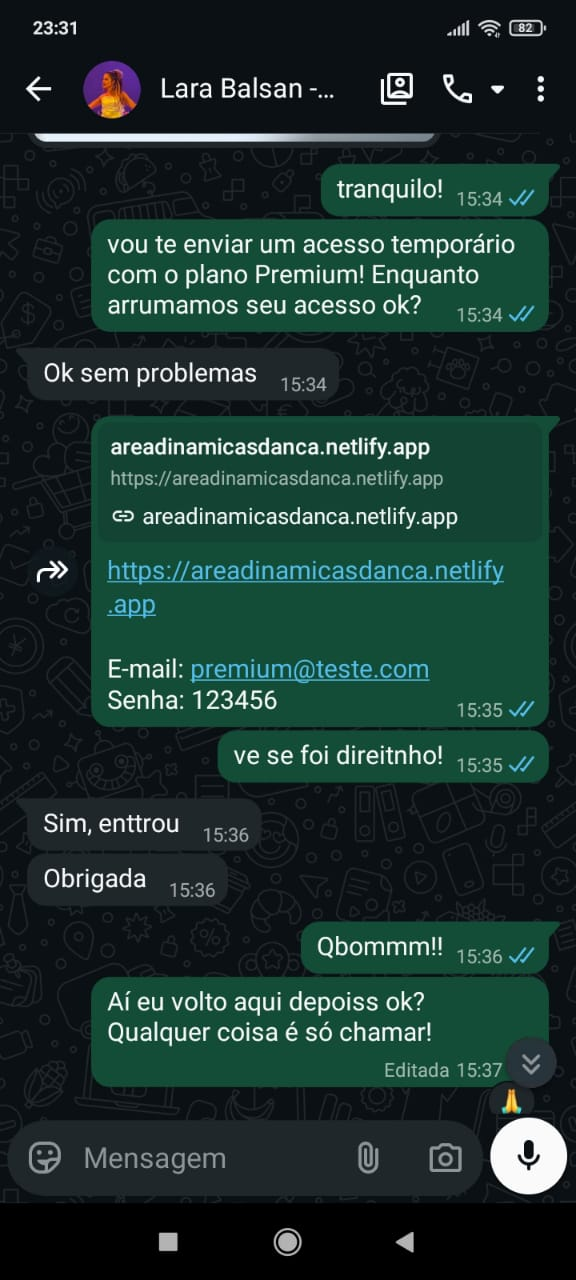
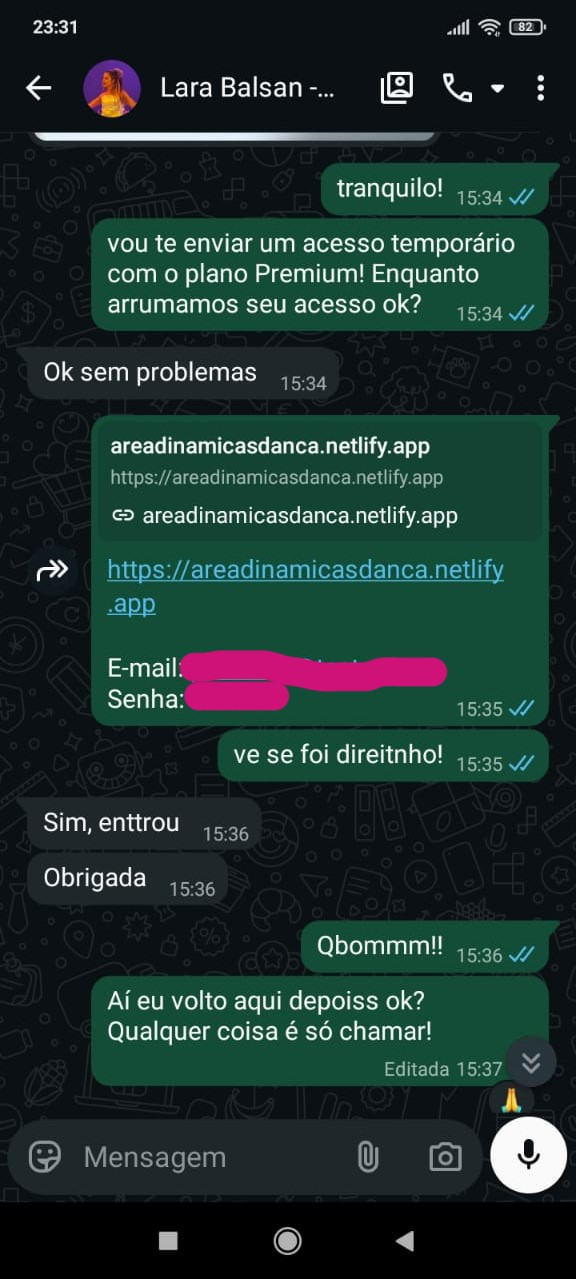
feat: ajustar Pagamento Único no plano premium e atualizar depoimentos

diff --git a/src/pages/LandingPage.tsx b/src/pages/LandingPage.tsx
@@ -728,6 +728,7 @@ export default function LandingPage() {
                 </div>
               </div>
               <ul className="text-left space-y-3.5 mb-10 w-full max-w-xs mx-auto font-bold text-slate-900 text-sm">
+                <li className="flex items-start gap-3"><CheckCircle2 className="text-brand-pink shrink-0 mt-0.5" size={16} /> <span>Pagamento Único</span></li>
                 <li className="flex items-start gap-3"><CheckCircle2 className="text-brand-pink shrink-0 mt-0.5" size={16} /> <span>+250 Dinâmicas Interativas</span></li>
                 <li className="flex items-start gap-3"><CheckCircle2 className="text-brand-pink shrink-0 mt-0.5" size={16} /> <span>Suporte Especializado</span></li>
                 <li className="flex items-start gap-3"><CheckCircle2 className="text-brand-pink shrink-0 mt-0.5" size={16} /> <span>Acesso Vitalício</span></li>
@@ -759,6 +760,7 @@ export default function LandingPage() {
 
               <h3 className="text-xl font-black text-brand-purple mb-6 uppercase mt-6 tracking-widest">Plano Premium</h3>
               <div className="mb-6">
+                <span className="text-sm font-bold text-slate-300 block mb-1">Pagamento Único</span>
                 <span className="text-sm font-bold text-brand-pink block line-through opacity-40 mb-1">De R$ 97,00 por</span>
                 <div className="flex items-center justify-center text-brand-purple">
                   <span className="text-xl font-bold self-start mt-2">R$</span>
@@ -774,6 +776,7 @@ export default function LandingPage() {
                 <img src="https://i.ibb.co/jk6HZG69/image.png" alt="Formas de Pagamento" className="w-full h-auto object-contain" />
               </div>
               <ul className="text-left space-y-3.5 mb-10 w-full max-w-xs mx-auto font-bold text-slate-900 text-sm">
+                <li className="flex items-start gap-3"><CheckCircle2 className="text-brand-pink shrink-0 mt-0.5" size={16} /> <span>Pagamento Único</span></li>
                 <li className="flex items-start gap-3"><CheckCircle2 className="text-brand-pink shrink-0 mt-0.5" size={16} /> <span>+250 Dinâmicas Interativas</span></li>
                 <li className="flex items-start gap-3"><CheckCircle2 className="text-brand-pink shrink-0 mt-0.5" size={16} /> <span>+100 Dinâmicas Poderosas para Controle de Turma e Engajamento Infantil</span></li>
                 <li className="flex items-start gap-3"><CheckCircle2 className="text-brand-pink shrink-0 mt-0.5" size={16} /> <span>Atualizações Mensais</span></li>
